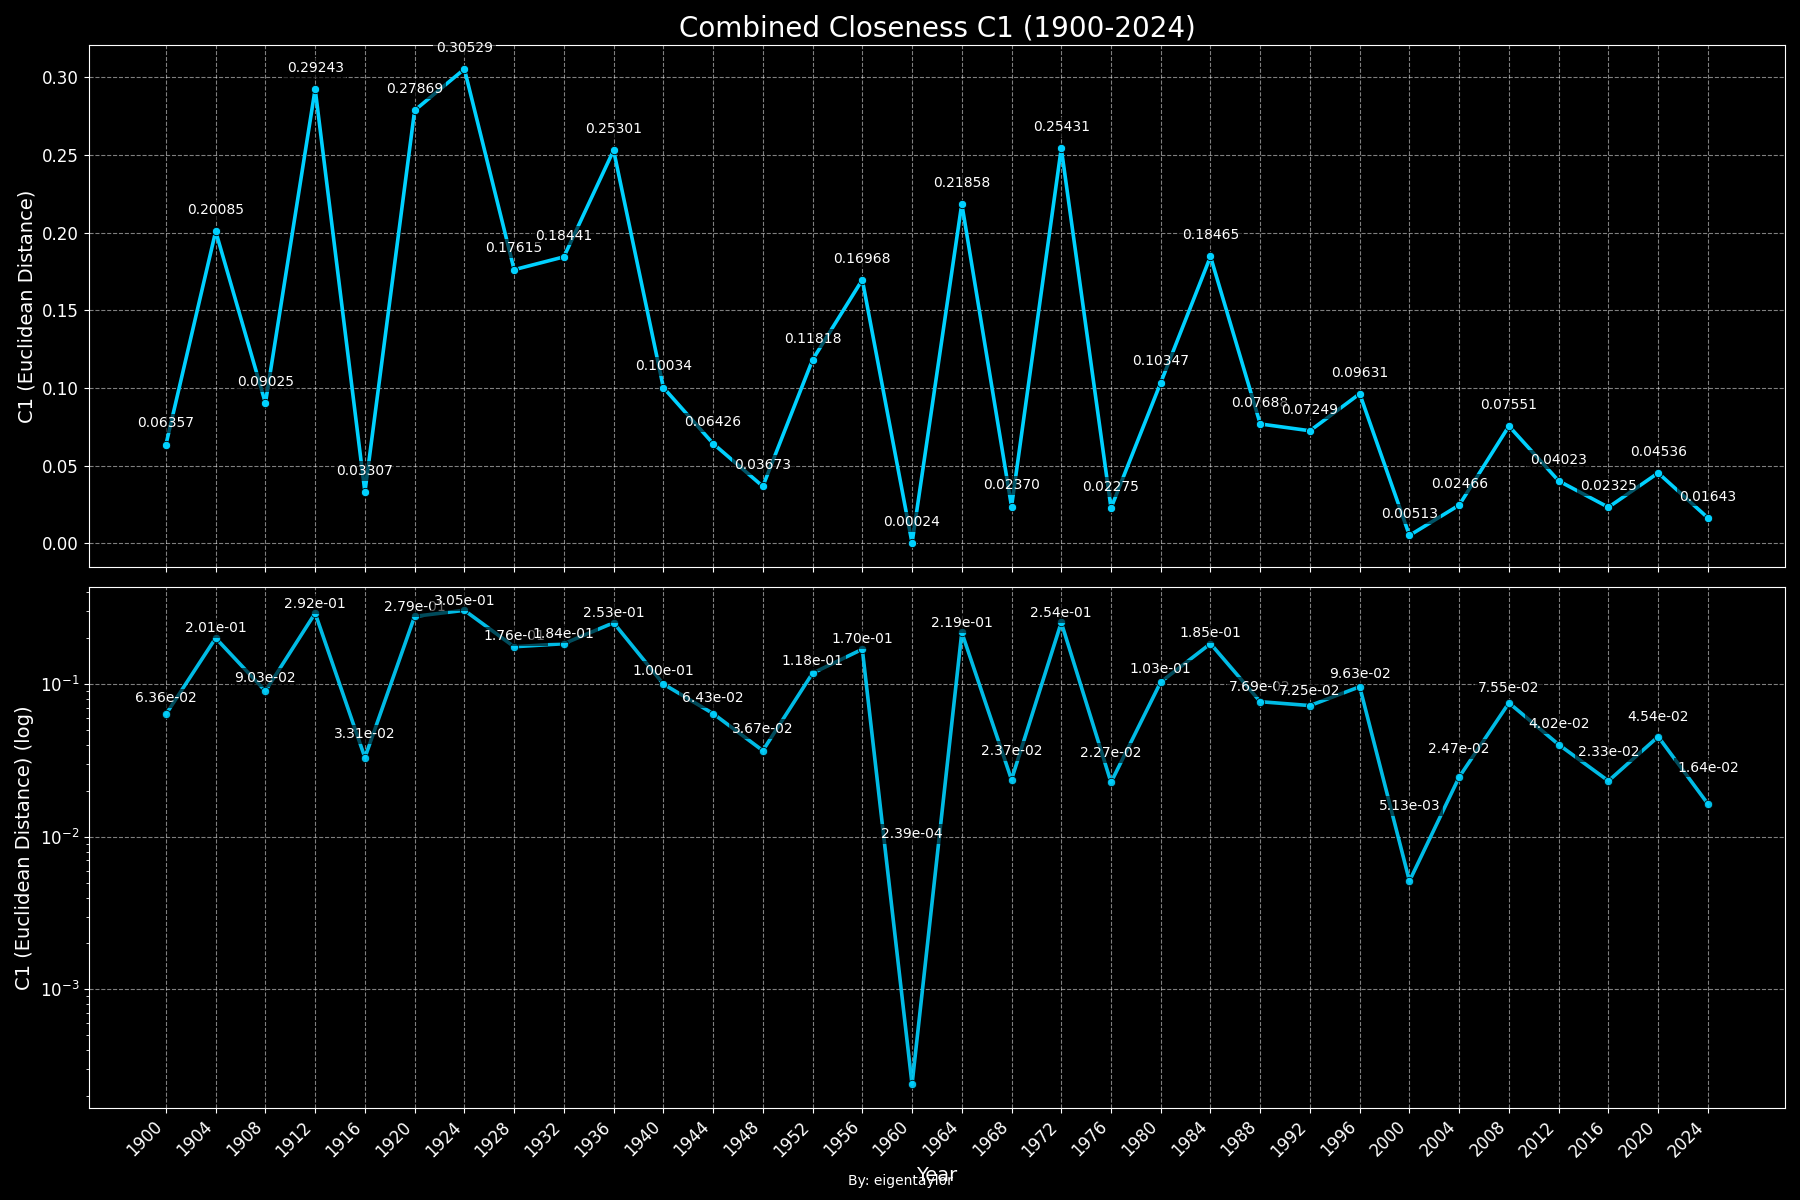
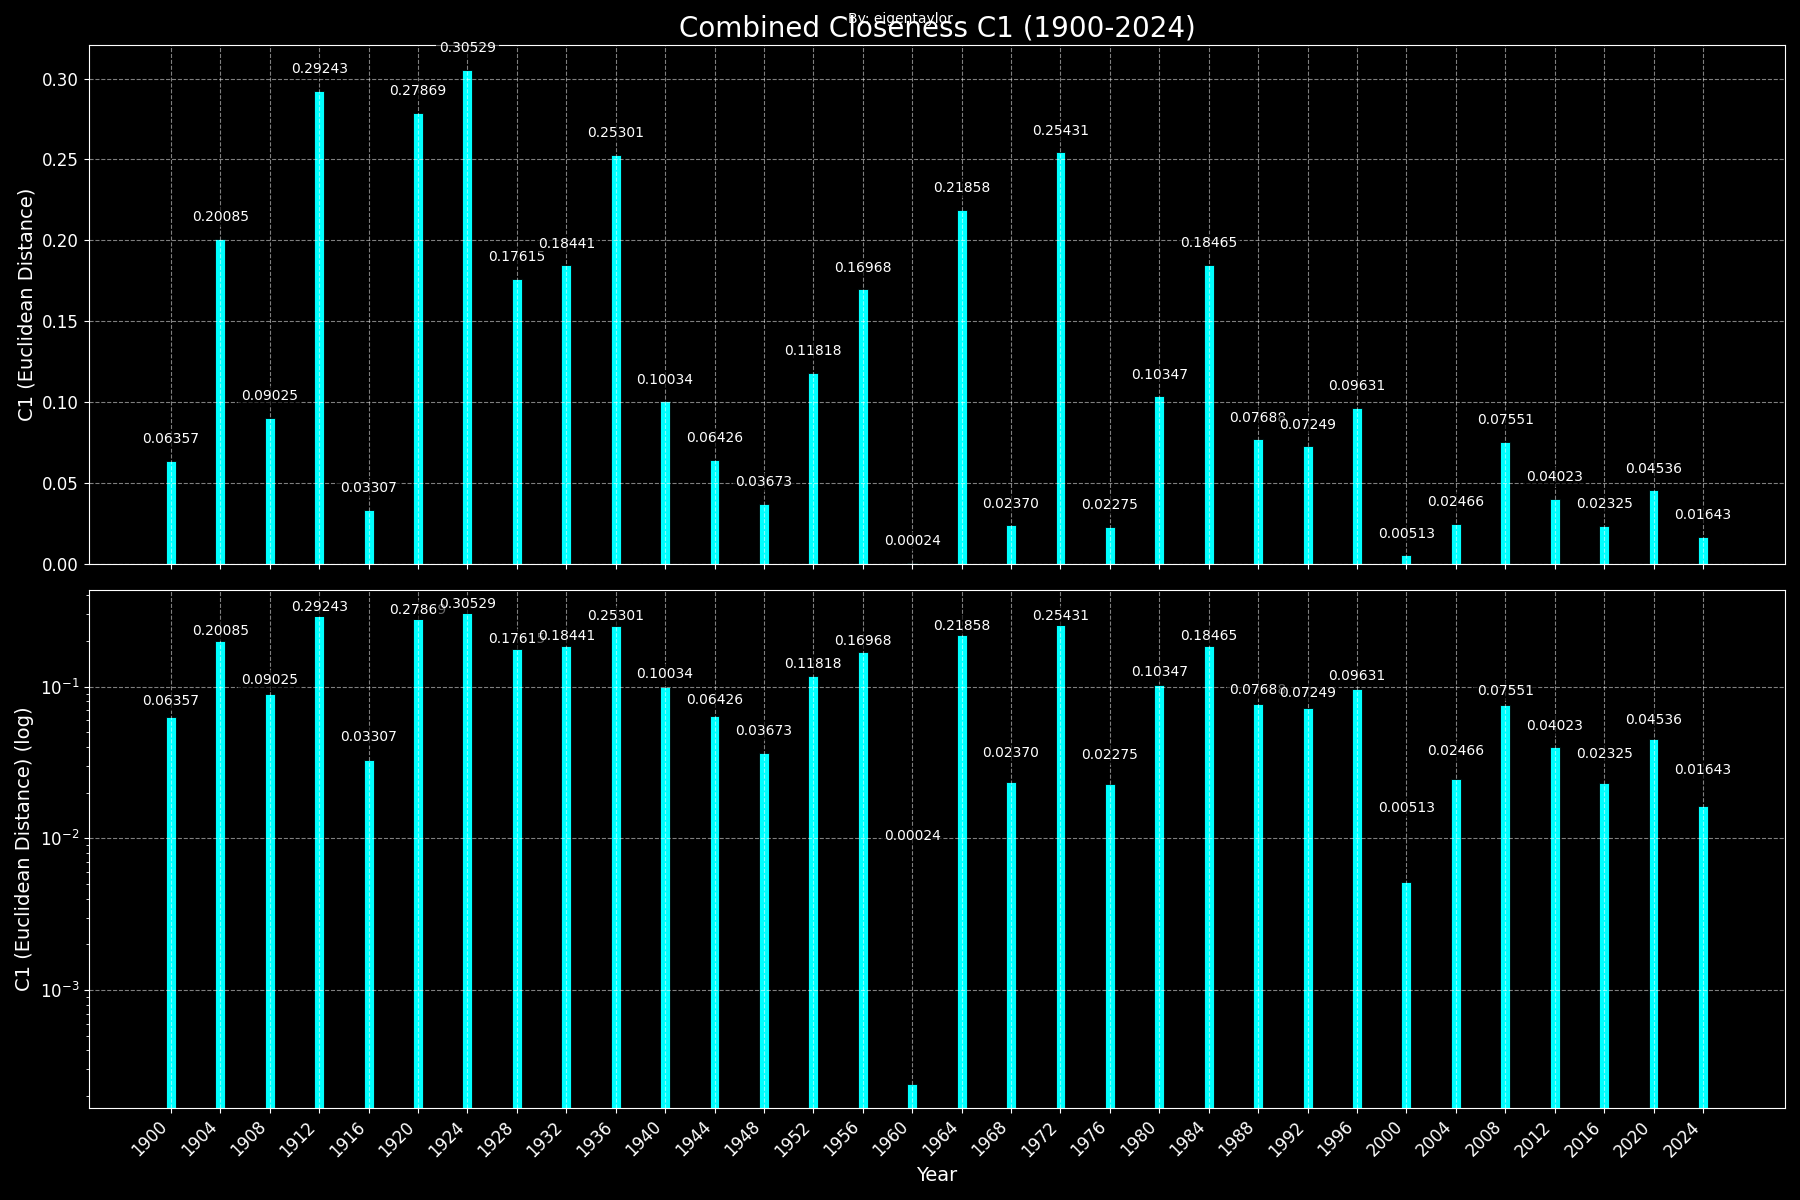
Switch to bar plots for election metrics visualizations
Replaced line plots with bar plots in election_metrics.py for consistency. Updated default bar color to cyan in plotting.py. Added requirements.txt for dependencies and VSCode terminal profiles. Regenerated election metrics result images.

diff --git a/election_metrics.py b/election_metrics.py
@@ -265,7 +265,7 @@ def _plot_series(years: List[int], values: List[float], ylabel: str, title: str,
     if bar:
         make_bar_plot(df_tmp, years[0], years[-1], plot_count, 'series', ylabel, title, filename, folder_path=folder, show_plot=False)
     else:
-        make_plot(df_tmp, years[0], years[-1], plot_count, 'series', ylabel, title, filename, folder_path=folder, show_plot=False)
+        make_bar_plot(df_tmp, years[0], years[-1], plot_count, 'series', ylabel, title, filename, folder_path=folder, show_plot=False)
 
 
 def write_outputs(metrics_df: pd.DataFrame, results_dir: str = 'results') -> None:
@@ -310,7 +310,7 @@ def write_outputs(metrics_df: pd.DataFrame, results_dir: str = 'results') -> Non
         if col == 'coalition_brittleness_count':
             make_bar_plot(df_plot, first_year, last_year, plot_count, col, ylabel, full_title, filename, folder_path=plots_dir, show_plot=False)
         else:
-            make_plot(df_plot, first_year, last_year, plot_count, col, ylabel, full_title, filename, folder_path=plots_dir, show_plot=False, subplot_dual_log=True)
+            make_bar_plot(df_plot, first_year, last_year, plot_count, col, ylabel, full_title, filename, folder_path=plots_dir, show_plot=False, subplot_dual_log=True)
 
 
 if __name__ == '__main__':

diff --git a/plotting.py b/plotting.py
@@ -1,6 +1,7 @@
 import os
 import numpy as np
 import matplotlib.pyplot as plt
+import utils
 
 # Always use dark theme here. The caller can override if desired before import.
 plt.style.use('dark_background')
@@ -146,7 +147,7 @@ def make_bar_plot(flip_results_df, start_year, end_year, plot_count, key, ylabel
     tick_fs = 12
     data_label_fs = 10
     data_bbox = dict(facecolor='black', alpha=0.6, pad=2, edgecolor='none')
-    bar_color_default = '#ff6b6b'
+    bar_color_default = 'cyan'
     bar_edge = dict(edgecolor='black', linewidth=0.6)
 
     # party colors (vibrant)
